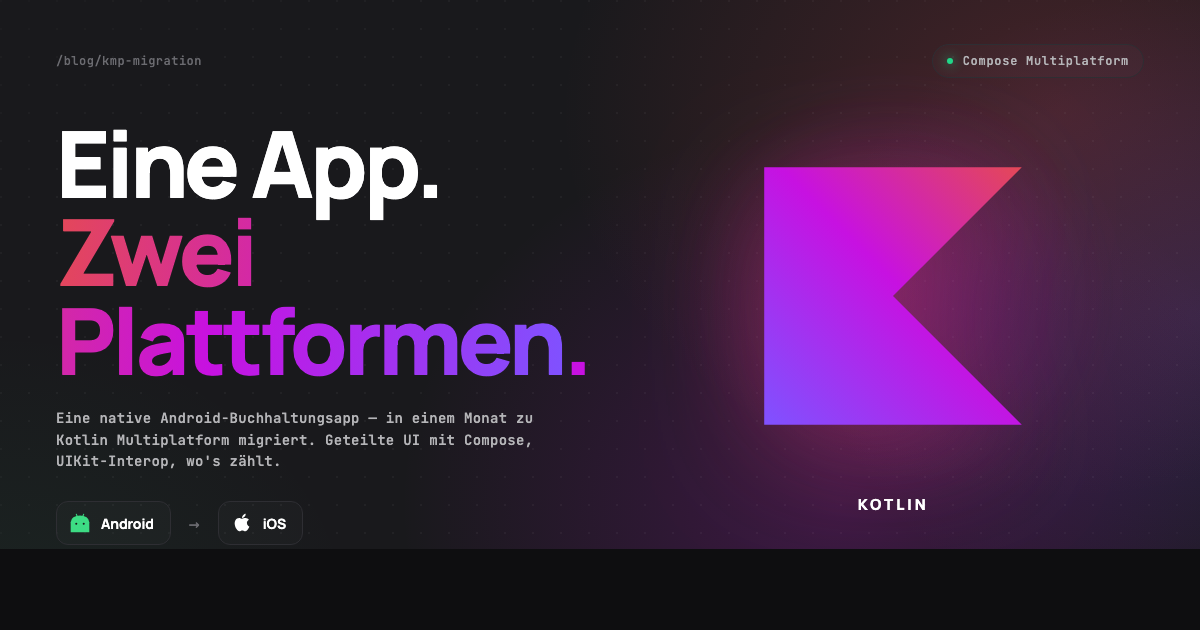
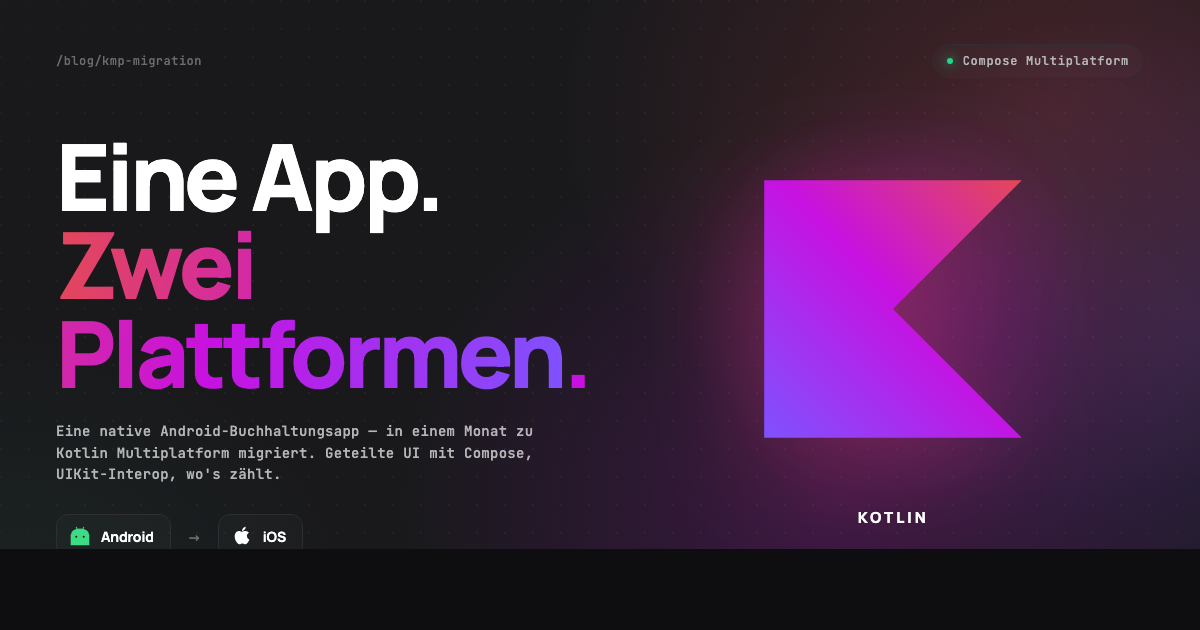
content(blog): remove redundant footer from hero, tighten body grid
The footer was getting clipped at the bottom of the 1200x630 canvas
and leaving an empty band when the image rendered in the post body.
Removed it (the post page already shows author + date), and pulled
the body grid down so chips sit closer to the bottom edge.

diff --git a/design/kmp-migration-hero.html b/design/kmp-migration-hero.html
@@ -116,10 +116,10 @@
     /* ============== HERO BODY ============== */
     .body {
       position: absolute;
-      top: 110px;
+      top: 100px;
       left: 56px;
       right: 56px;
-      bottom: 76px;
+      bottom: 40px;
       display: grid;
       grid-template-columns: 1.05fr 0.95fr;
       gap: 32px;
@@ -237,21 +237,6 @@
       z-index: 3;
     }
 
-    /* ============== BOTTOM ============== */
-    .bottom {
-      position: absolute;
-      bottom: 36px; left: 56px; right: 56px;
-      display: flex;
-      justify-content: space-between;
-      align-items: center;
-      font-family: var(--mono);
-      font-size: 11px;
-      letter-spacing: 0.04em;
-      color: var(--ink-faint);
-      z-index: 5;
-    }
-    .bottom .left { color: var(--ink-dim); }
-    .bottom .left .slash { color: var(--kot-b); }
   </style>
 </head>
 <body>
@@ -321,11 +306,6 @@
       </section>
     </div>
 
-    <!-- ============== BOTTOM ============== -->
-    <footer class="bottom">
-      <span class="left">tyfn.online</span>
-      <span>Tayfun Ilker · 2026</span>
-    </footer>
   </article>
 </body>
 </html>
